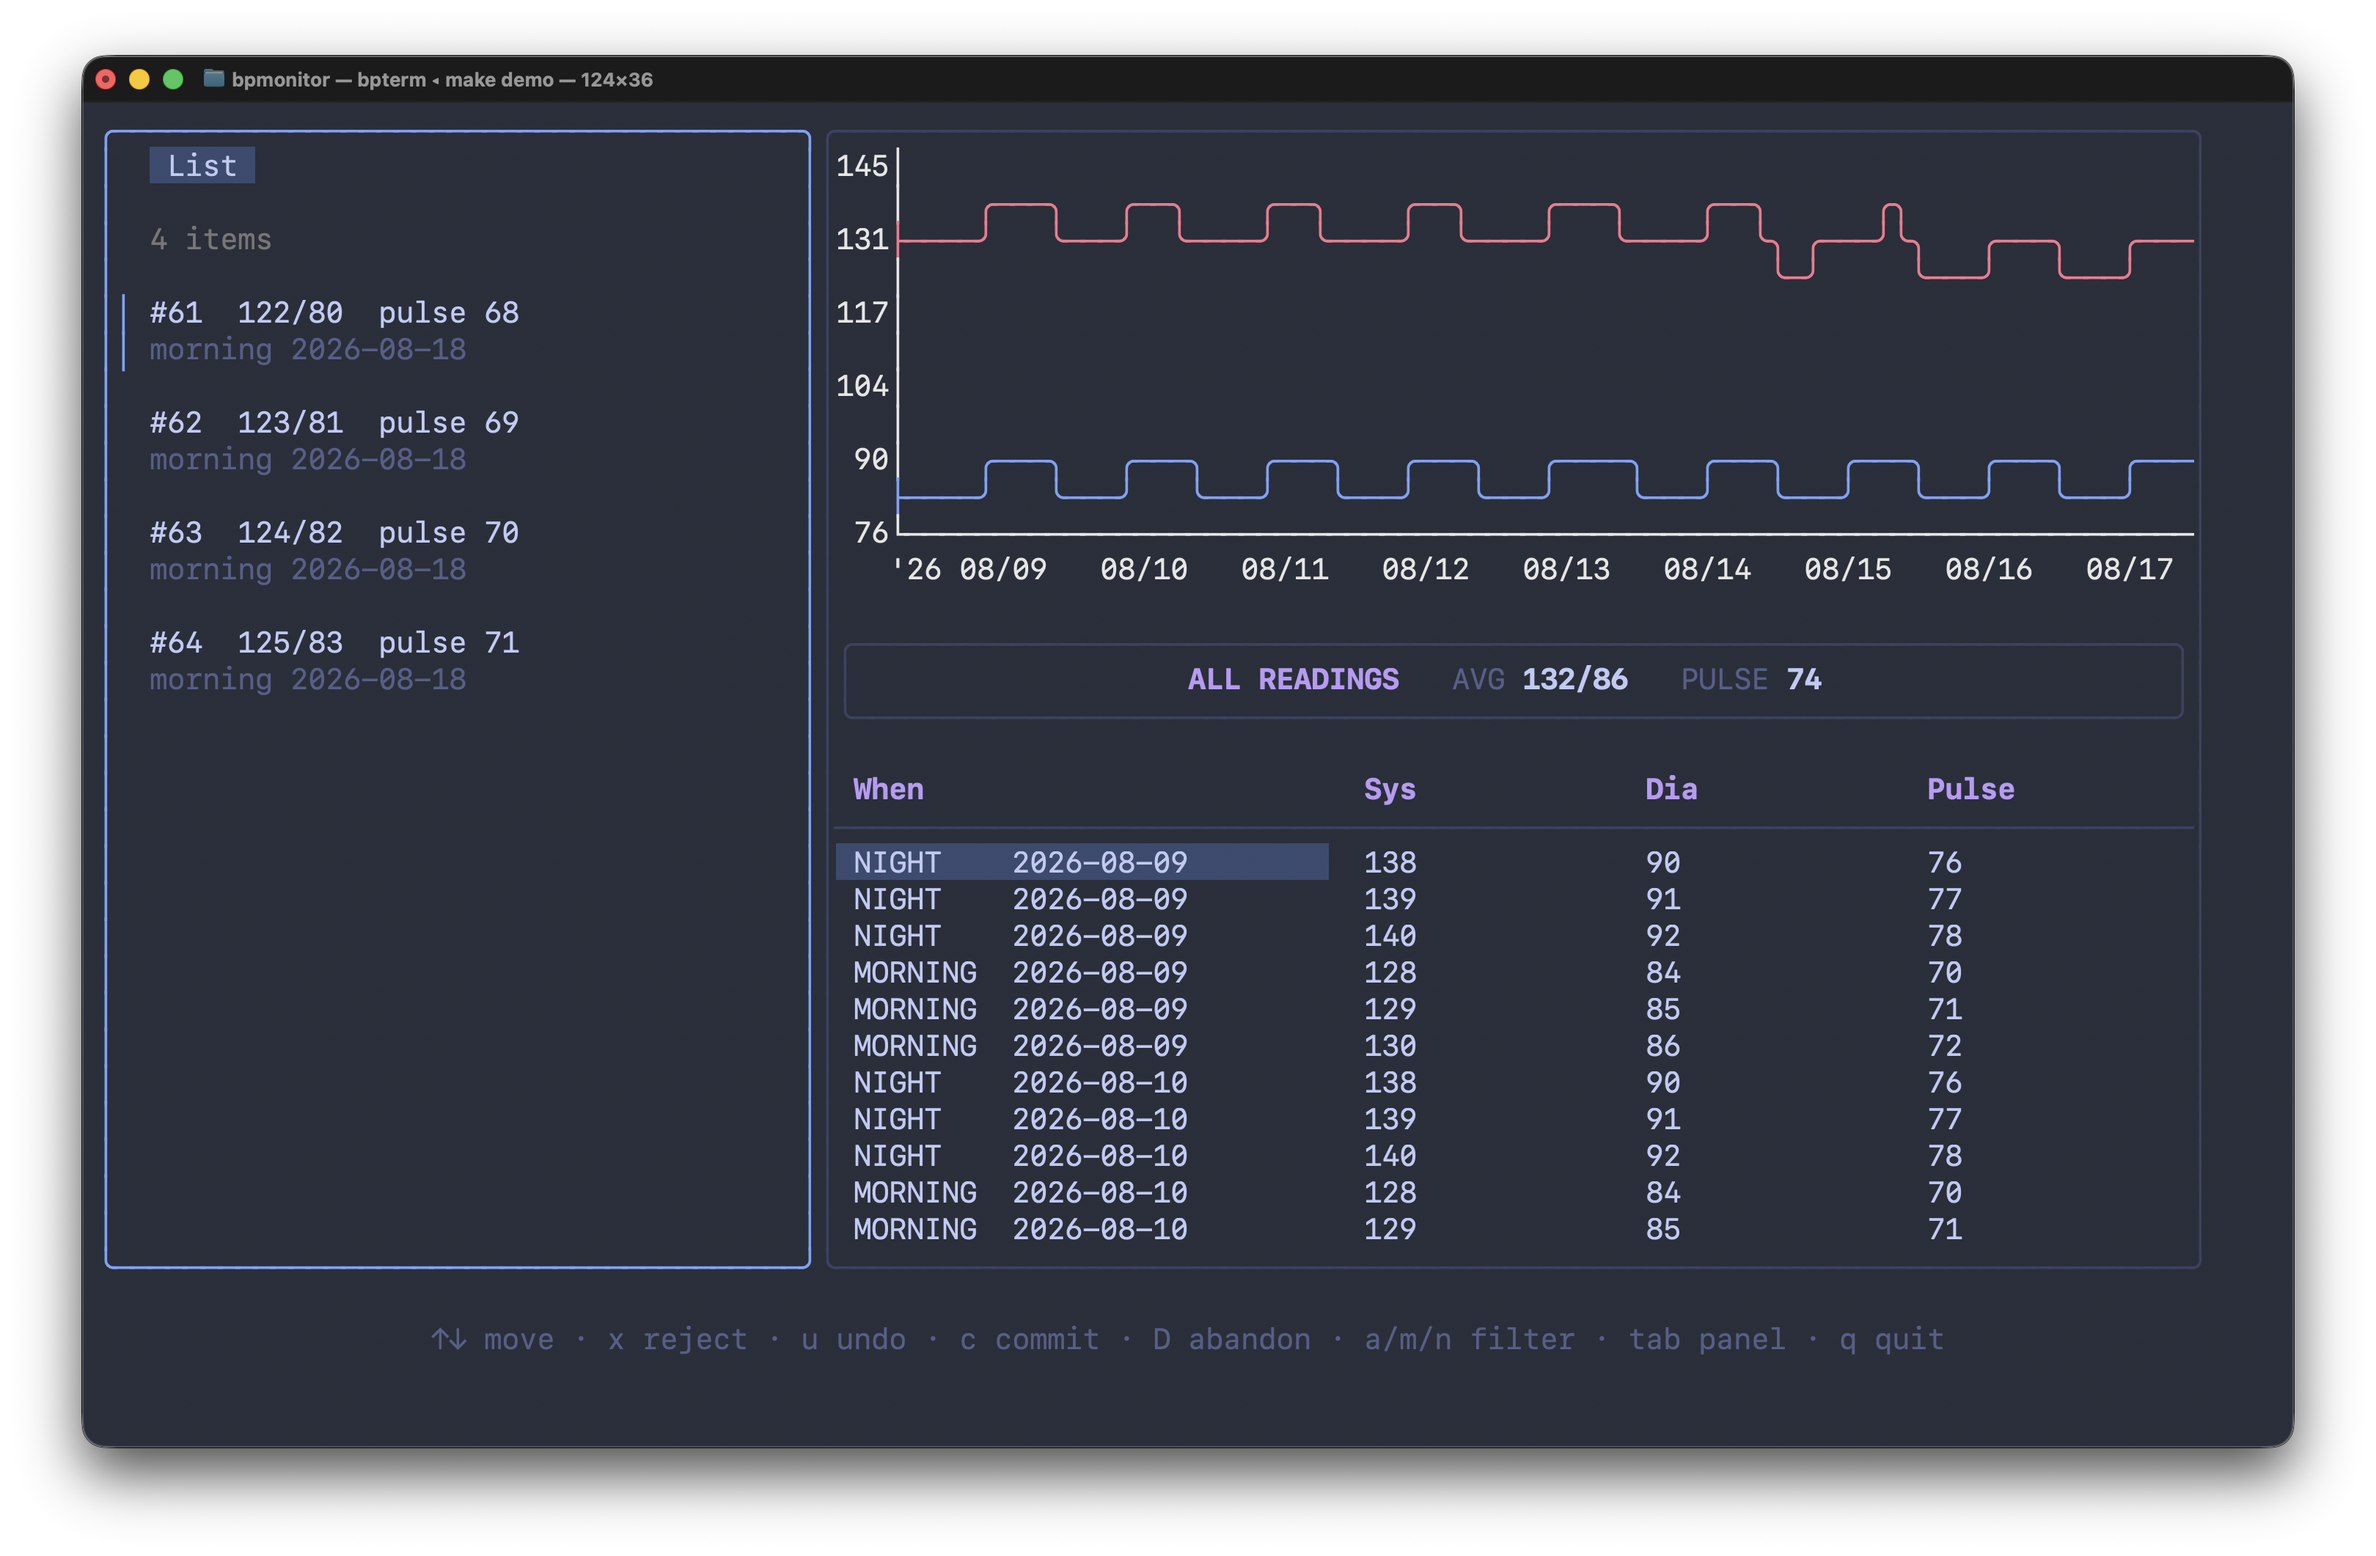
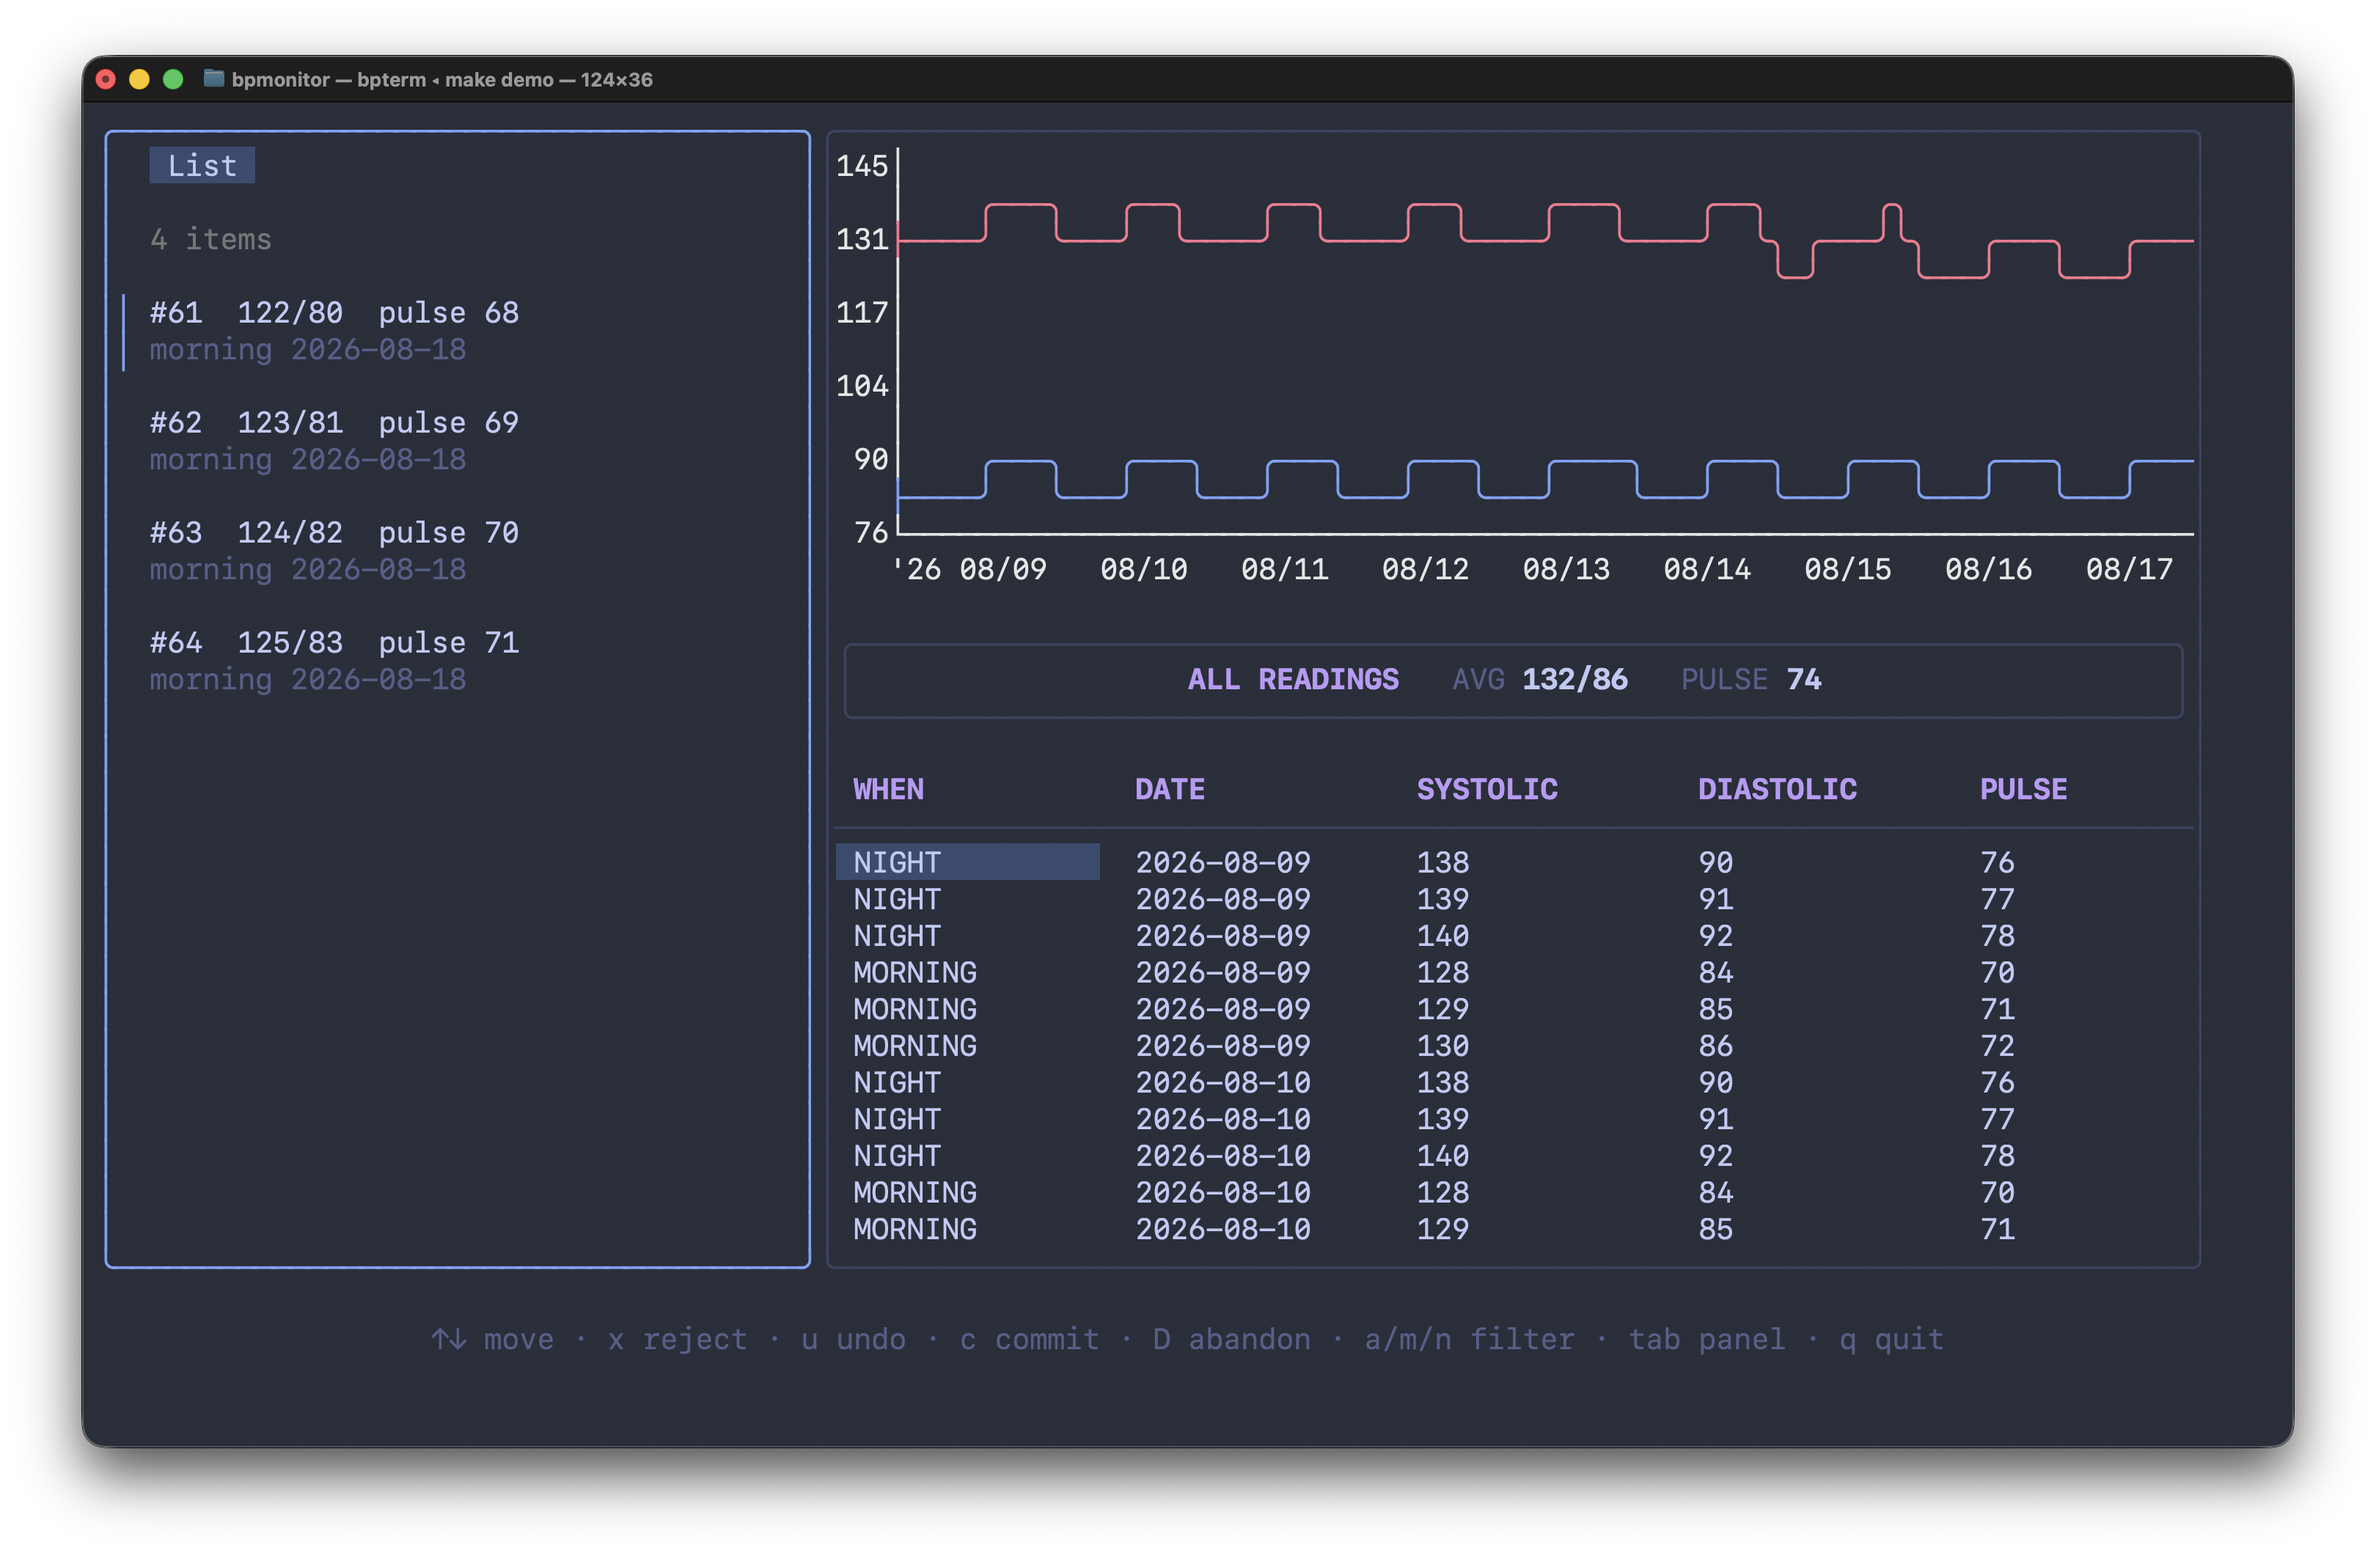
feat: update trends table headers for improved clarity and consistency

diff --git a/internal/tui/trends.go b/internal/tui/trends.go
@@ -63,10 +63,11 @@ func committedColumns(width int) []table.Column {
 		rest = 5
 	}
 	return []table.Column{
-		{Title: "When", Width: whenW},
-		{Title: "Sys", Width: rest},
-		{Title: "Dia", Width: rest},
-		{Title: "Pulse", Width: usable - whenW - 2*rest},
+		{Title: "WHEN", Width: rest},
+		{Title: "DATE", Width: rest},
+		{Title: "SYSTOLIC", Width: rest},
+		{Title: "DIASTOLIC", Width: rest},
+		{Title: "PULSE", Width: usable - whenW - 2*rest},
 	}
 }
 
@@ -96,7 +97,8 @@ func committedRows(committed []storage.StoredReading) []table.Row {
 	rows := make([]table.Row, len(committed))
 	for i, r := range committed {
 		rows[i] = table.Row{
-			fmt.Sprintf("%-*s  %s", sessionLabelWidth, strings.ToUpper(r.SessionType), r.SessionDate),
+			fmt.Sprintf("%s", strings.ToUpper(r.SessionType)),
+			fmt.Sprintf("%s", r.SessionDate),
 			fmt.Sprintf("%d", r.Systolic),
 			fmt.Sprintf("%d", r.Diastolic),
 			fmt.Sprintf("%d", r.Pulse),
